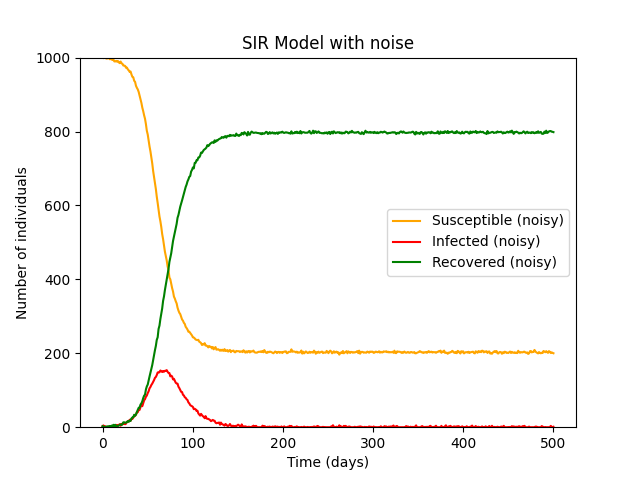
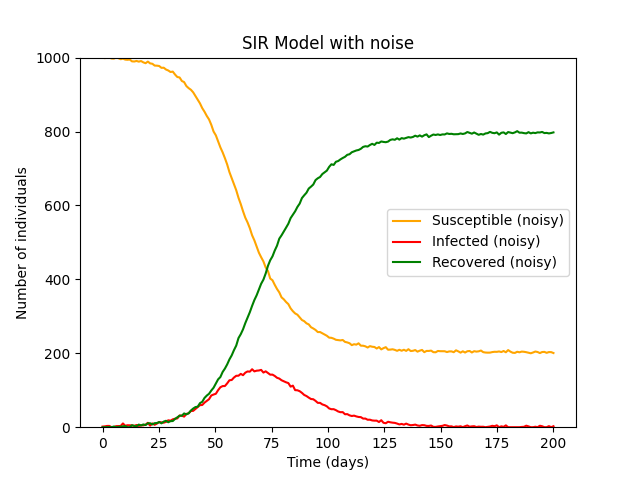
Updated SIR-simultaion.py

diff --git a/SIR-simulation.py b/SIR-simulation.py
@@ -9,7 +9,7 @@ R0 = 0
 S0 = N - I0 - R0
 beta = 0.2
 gamma = 1 / 10
-t = np.linspace(0, 500, 500)
+t = np.linspace(0, 200, 200)
 def func(y, t, N, beta, gamma):
   S, I, R = y
   dSdt = -beta * S * I / N
@@ -31,7 +31,7 @@ plt.title('SIR Model')
 plt.legend()
 plt.savefig("plots/SIRmodel.png")
 plt.show()
-#noise
+# Adding noise 
 noise_level = 2
 S_noisy = S + np.random.normal(0, noise_level, size=S.shape)
 I_noisy = I + np.random.normal(0, noise_level, size=I.shape)
@@ -66,24 +66,26 @@ def loss(params):
   sol = odeint(func, y0_est, t_subset, args=(N, beta, gamma))
   S_sim, I_sim, R_sim = sol.T
   return np.mean((I_sim - I_subset)**2)
-initial_guess = [0.1, 0.1]
+initial_guess_nm = np.random.uniform(0, 1, size=2)
+initial_guess_bfgs = np.random.uniform(0, 1, size=2)
+initial_guess_lbfgs = np.random.uniform(0, 1, size=2)
 bounds = [(0.0001, 1), (0.0001, 1)]
-result_nm = minimize(loss, initial_guess, method='Nelder-Mead', bounds=bounds)
+result_nm = minimize(loss, initial_guess_nm, method='Nelder-Mead', bounds=bounds)
 beta_nm, gamma_nm = result_nm.x
-step_size_nm = np.array(result_nm.x) - np.array(initial_guess) 
-print(f"[Nelder-Mead] Start point: {initial_guess}, Estimated β = {beta_nm:.8f}, γ = {gamma_nm:.8f}, Step size: {step_size_nm}, Iterations = {result_nm.nit}")
+step_size_nm = np.array(result_nm.x) - np.array(initial_guess_nm) 
+print(f"[Nelder-Mead] Start point: {initial_guess_nm}, Estimated β = {beta_nm:.8f}, γ = {gamma_nm:.8f}, Step size: {step_size_nm}, Iterations = {result_nm.nit}")
 
-result_bfgs = minimize(loss, initial_guess, method='BFGS')  
+result_bfgs = minimize(loss, initial_guess_bfgs, method='BFGS')  
 beta_bfgs, gamma_bfgs = result_bfgs.x
-step_size_bfgs = np.array(result_bfgs.x) - np.array(initial_guess)  
-print(f"[BFGS] Start point: {initial_guess}, Estimated β = {beta_bfgs:.8f}, γ = {gamma_bfgs:.8f}, Step size: {step_size_bfgs}, Iterations = {result_bfgs.nit}")
+step_size_bfgs = np.array(result_bfgs.x) - np.array(initial_guess_bfgs)  
+print(f"[BFGS] Start point: {initial_guess_bfgs}, Estimated β = {beta_bfgs:.8f}, γ = {gamma_bfgs:.8f}, Step size: {step_size_bfgs}, Iterations = {result_bfgs.nit}")
 
-result_lbfgs = minimize(loss, initial_guess, method='L-BFGS-B', bounds=bounds)
+result_lbfgs = minimize(loss, initial_guess_lbfgs, method='L-BFGS-B', bounds=bounds)
 beta_lbfgs, gamma_lbfgs = result_lbfgs.x
-step_size_lbfgs = np.array(result_lbfgs.x) - np.array(initial_guess)  
-print(f"[L-BFGS-B] Start point: {initial_guess}, Estimated β = {beta_lbfgs:.8f}, γ = {gamma_lbfgs:.8f}, Step size: {step_size_lbfgs}, Iterations = {result_lbfgs.nit}")
+step_size_lbfgs = np.array(result_lbfgs.x) - np.array(initial_guess_lbfgs)  
+print(f"[L-BFGS-B] Start point: {initial_guess_lbfgs}, Estimated β = {beta_lbfgs:.8f}, γ = {gamma_lbfgs:.8f}, Step size: {step_size_lbfgs}, Iterations = {result_lbfgs.nit}")
 
-# loss landscape
+# Plotting the loss landscape
 beta_vals = np.linspace(0.0001, 0.3, 200)
 gamma_vals = np.linspace(0.0001, 0.18, 200)
 loss_grid = np.zeros((len(beta_vals), len(gamma_vals)))
@@ -92,13 +94,15 @@ for i, b in enumerate(beta_vals):
         loss_grid[i, j] = loss([b, g])
 log_loss_grid = np.log10(loss_grid + 1e-10)
 G, B = np.meshgrid(gamma_vals, beta_vals)
-initial_guess = [0.1, 0.1]
+initial_guess_nm = np.random.uniform(0, 1, size=2)
+initial_guess_bfgs = np.random.uniform(0, 1, size=2)
+initial_guess_lbfgs = np.random.uniform(0, 1, size=2)
 bounds = [(0, 1), (0, 1)]
-result_nm = minimize(loss, initial_guess, bounds=bounds)
+result_nm = minimize(loss, initial_guess_nm, bounds=bounds)
 beta_nm, gamma_nm = result_nm.x
-result_bfgs = minimize(loss, initial_guess, method='BFGS')
+result_bfgs = minimize(loss, initial_guess_bfgs, method='BFGS')
 beta_bfgs, gamma_bfgs = result_bfgs.x
-result_lbfgs = minimize(loss, initial_guess, method='L-BFGS-B', bounds=bounds)
+result_lbfgs = minimize(loss, initial_guess_lbfgs, method='L-BFGS-B', bounds=bounds)
 beta_lbfgs, gamma_lbfgs = result_lbfgs.x
 plt.figure(figsize=(10, 8))
 cp = plt.contourf(G, B, log_loss_grid, levels=100, cmap='viridis')
@@ -140,6 +144,7 @@ def plot_fits():
     plt.show()
 plot_fits()
 
+# Error Calculation
 
 S_true_subset, I_true_subset, R_true_subset = odeint(func, (S0, I0, R0), t_subset, args=(N, beta, gamma)).T
 loss_true_vs_noisy = np.mean((I_true_subset - I_subset) ** 2)
@@ -150,3 +155,19 @@ print(f"Loss (L-BFGS-B Fit vs Noisy): {loss_fit_vs_noisy:.2f}")
 print(len(I_fit_lbfgs))
 print(len(I_subset))
 
+# Fitted data in terms of percentage of population
+plt.figure(figsize=(10, 6))
+I_true_pct = (I / N) * 100
+I_lbfgs_pct = (I_fit_lbfgs / N) * 100
+I_noisy_pct = (I_subset / N) * 100
+plt.plot(t, I_true_pct, 'k-', label='True Infected (%)', linewidth=2)
+plt.plot(t_subset, I_lbfgs_pct, 'g-', label='L-BFGS-B Fit (%)', linewidth=2)
+plt.scatter(t_subset, I_noisy_pct, color='red', marker='x', label='Noisy Infected (%)')
+plt.xlabel('Time (days)')
+plt.ylabel('Infected (% of population)')
+plt.title('Fitted Infected Phase (L-BFGS-B) and Noisy Data as % of Population')
+plt.legend()
+plt.grid(True)
+plt.tight_layout()
+plt.savefig("plots/fitted_data_percentage.png")
+plt.show()

diff --git a/SEIRS-simulation.py b/SEIRS-simulation.py
@@ -1,0 +1,22 @@
+from scipy.integrate import odeint
+import numpy as np
+
+def seirsb_model(y, t, N, beta, sigma, gamma, omega):
+    S, E, I, R = y
+    dSdt = -beta * S * I / N + omega * R
+    dEdt = beta * S * I / N - sigma * E
+    dIdt = sigma * E - gamma * I
+    dRdt = gamma * I - omega * R
+    return dSdt, dEdt, dIdt, dRdt
+
+N = 1000000
+E0, I0, R0 = 10, 5, 0
+S0 = N - E0 - I0 - R0
+y0 = S0, E0, I0, R0
+
+t = np.linspace(0, 160, 160)
+beta, sigma, gamma, omega = 0.3, 0.2, 0.1, 0.01
+
+solution = odeint(seirsb_model, y0, t, args=(N, beta, sigma, gamma, omega))
+S, E, I, R = solution.T
+
